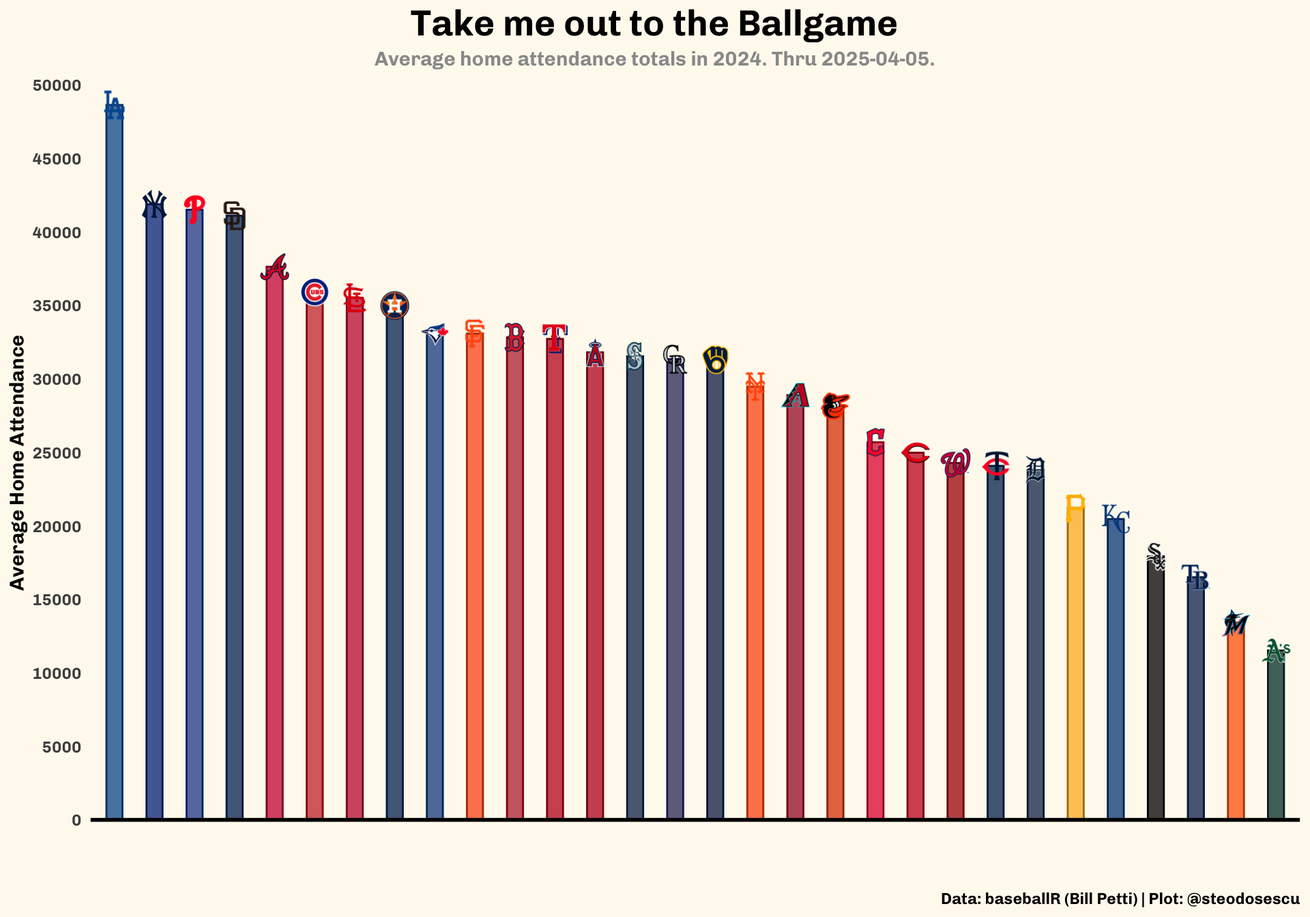
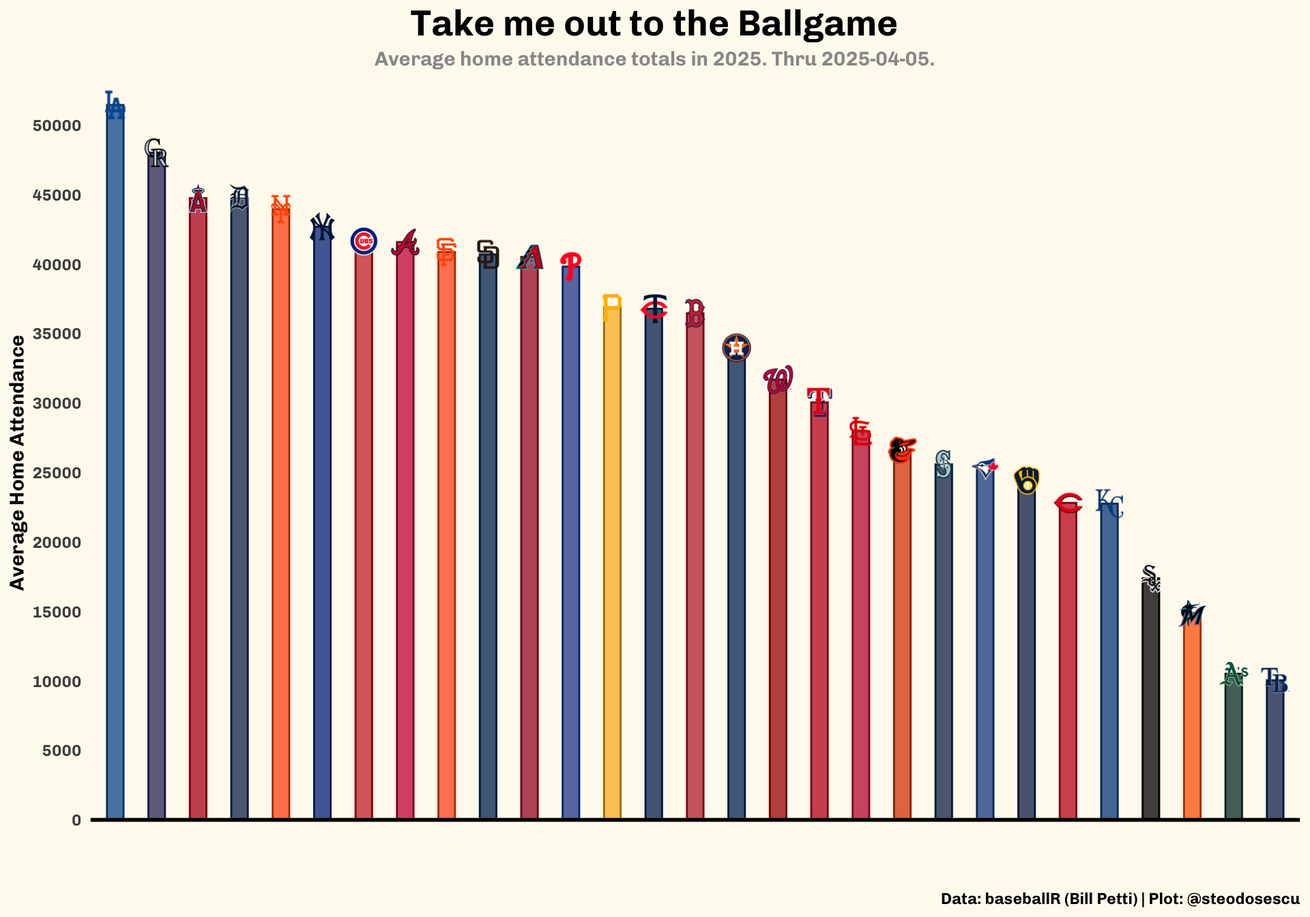
Updated attendance plot for 2025

diff --git a/MLB-Summary.html b/MLB-Summary.html
@@ -307,8 +307,8 @@ advanced metrics I’m tracking for all 30 MLB teams.</p>
 <hr />
 <div id="current-standings" class="section level3">
 <h3>Current Standings</h3>
-<div class="reactable html-widget html-fill-item" id="htmlwidget-c0e83b0c896b8b796c0e" style="width:auto;height:auto;"></div>
-<script type="application/json" data-for="htmlwidget-c0e83b0c896b8b796c0e">{"x":{"tag":{"name":"Reactable","attribs":{"data":{"Rank":[1,2,3,4,5,6,7,8,9,10,11,12,13,14,15,16,17,18,19,20,21,22,23,24,25,26,27,28,29,30],"team_logo_espn":["https://a.espncdn.com/combiner/i?img=/i/teamlogos/mlb/500/LAD.png","https://a.espncdn.com/combiner/i?img=/i/teamlogos/mlb/500/SD.png","https://a.espncdn.com/combiner/i?img=/i/teamlogos/mlb/500/PHI.png","https://a.espncdn.com/combiner/i?img=/i/teamlogos/mlb/500/SF.png","https://a.espncdn.com/combiner/i?img=/i/teamlogos/mlb/500/TEX.png","https://a.espncdn.com/combiner/i?img=/i/teamlogos/mlb/500/NYY.png","https://a.espncdn.com/combiner/i?img=/i/teamlogos/mlb/500/TOR.png","https://a.espncdn.com/combiner/i?img=/i/teamlogos/mlb/500/ARI.png","https://a.espncdn.com/combiner/i?img=/i/teamlogos/mlb/500/CHC.png","https://a.espncdn.com/combiner/i?img=/i/teamlogos/mlb/500/LAA.png","https://a.espncdn.com/combiner/i?img=/i/teamlogos/mlb/500/TB.png","https://a.espncdn.com/combiner/i?img=/i/teamlogos/mlb/500/STL.png","https://a.espncdn.com/combiner/i?img=/i/teamlogos/mlb/500/NYM.png","https://a.espncdn.com/combiner/i?img=/i/teamlogos/mlb/500/BOS.png","https://a.espncdn.com/combiner/i?img=/i/teamlogos/mlb/500/MIA.png","https://a.espncdn.com/combiner/i?img=/i/teamlogos/mlb/500/MIL.png","https://a.espncdn.com/combiner/i?img=/i/teamlogos/mlb/500/KC.png","https://a.espncdn.com/combiner/i?img=/i/teamlogos/mlb/500/HOU.png","https://a.espncdn.com/combiner/i?img=/i/teamlogos/mlb/500/CLE.png","https://a.espncdn.com/combiner/i?img=/i/teamlogos/mlb/500/DET.png","https://a.espncdn.com/combiner/i?img=/i/teamlogos/mlb/500/SEA.png","https://a.espncdn.com/combiner/i?img=/i/teamlogos/mlb/500/BAL.png","https://a.espncdn.com/combiner/i?img=/i/teamlogos/mlb/500/OAK.png","https://a.espncdn.com/combiner/i?img=/i/teamlogos/mlb/500/CHW.png","https://a.espncdn.com/combiner/i?img=/i/teamlogos/mlb/500/MIN.png","https://a.espncdn.com/combiner/i?img=/i/teamlogos/mlb/500/PIT.png","https://a.espncdn.com/combiner/i?img=/i/teamlogos/mlb/500/CIN.png","https://a.espncdn.com/combiner/i?img=/i/teamlogos/mlb/500/COL.png","https://a.espncdn.com/combiner/i?img=/i/teamlogos/mlb/500/WAS.png","https://a.espncdn.com/combiner/i?img=/i/teamlogos/mlb/500/ATL.png"],"name":["Los Angeles Dodgers","San Diego Padres","Philadelphia Phillies","San Francisco Giants","Texas Rangers","New York Yankees","Toronto Blue Jays","Arizona Diamondbacks","Chicago Cubs","Los Angeles Angels","Tampa Bay Rays","St. Louis Cardinals","New York Mets","Boston Red Sox","Miami Marlins","Milwaukee Brewers","Kansas City Royals","Houston Astros","Cleveland Guardians","Detroit Tigers","Seattle Mariners","Baltimore Orioles","Athletics","Chicago White Sox","Minnesota Twins","Pittsburgh Pirates","Cincinnati Reds","Colorado Rockies","Washington Nationals","Atlanta Braves"],"division":["NL West","NL West","NL East","NL West","AL West","AL East","AL East","NL West","NL Central","AL West","AL East","NL Central","NL East","AL East","NL East","NL Central","AL Central","AL West","AL Central","AL Central","AL West","AL East","AL West","AL Central","AL Central","NL Central","NL Central","NL West","NL East","NL East"],"W":[8,7,6,6,6,5,5,5,6,4,4,4,4,4,4,4,3,3,3,3,3,3,3,2,2,2,2,1,1,1],"L":[1,1,1,1,2,2,3,3,4,3,3,3,3,4,4,4,4,4,4,4,5,5,5,5,5,6,6,6,6,7],"W-L%":[0.889,0.875,0.857,0.857,0.75,0.714,0.625,0.625,0.6,0.571,0.571,0.571,0.571,0.5,0.5,0.5,0.429,0.429,0.429,0.429,0.375,0.375,0.375,0.286,0.286,0.25,0.25,0.143,0.143,0.125],"GB":["--","0.5","1.0","1.0","--","0.5","1.0","2.5","2.5","1.5","1.5","3.0","3.0","2.0","3.5","3.5","2.5","2.5","2.5","2.5","3.0","3.0","3.0","3.5","3.5","5.5","5.5","6.0","6.0","6.5"],"pythW-L%":[0.747,0.856,0.763,0.703,0.427,0.73,0.446,0.588,0.631,0.361,0.677,0.631,0.67,0.574,0.337,0.238,0.563,0.365,0.399,0.5,0.338,0.454,0.301,0.517,0.279,0.266,0.556,0.199,0.307,0.371],"run_diff":[21,23,17,15,-4,26,-4,9,16,-11,9,13,9,6,-13,-24,4,-6,-7,0,-12,-4,-17,1,-15,-17,3,-16,-14,-8],"proj_w":[121,139,124,114,69,118,72,95,102,58,110,102,109,93,55,39,91,59,65,81,55,74,49,84,45,43,90,32,50,60],"proj_l":[41,23,38,48,93,44,90,67,60,104,52,60,53,69,107,123,71,103,97,81,107,88,113,78,117,119,72,130,112,102]},"columns":[{"id":"Rank","name":"Rank","type":"numeric","minWidth":75,"align":"center"},{"id":"team_logo_espn","name":"","type":"character","minWidth":75,"align":"center","cell":[{"name":"Fragment","attribs":[],"children":[{"name":"div","attribs":{"style":{"display":"flex","justifyContent":"center"}},"children":[{"name":"img","attribs":{"src":"https://a.espncdn.com/combiner/i?img=/i/teamlogos/mlb/500/LAD.png","align":"center","height":"25","width":"30"},"children":[]}]}]},{"name":"Fragment","attribs":[],"children":[{"name":"div","attribs":{"style":{"display":"flex","justifyContent":"center"}},"children":[{"name":"img","attribs":{"src":"https://a.espncdn.com/combiner/i?img=/i/teamlogos/mlb/500/SD.png","align":"center","height":"25","width":"30"},"children":[]}]}]},{"name":"Fragment","attribs":[],"children":[{"name":"div","attribs":{"style":{"display":"flex","justifyContent":"center"}},"children":[{"name":"img","attribs":{"src":"https://a.espncdn.com/combiner/i?img=/i/teamlogos/mlb/500/PHI.png","align":"center","height":"25","width":"30"},"children":[]}]}]},{"name":"Fragment","attribs":[],"children":[{"name":"div","attribs":{"style":{"display":"flex","justifyContent":"center"}},"children":[{"name":"img","attribs":{"src":"https://a.espncdn.com/combiner/i?img=/i/teamlogos/mlb/500/SF.png","align":"center","height":"25","width":"30"},"children":[]}]}]},{"name":"Fragment","attribs":[],"children":[{"name":"div","attribs":{"style":{"display":"flex","justifyContent":"center"}},"children":[{"name":"img","attribs":{"src":"https://a.espncdn.com/combiner/i?img=/i/teamlogos/mlb/500/TEX.png","align":"center","height":"25","width":"30"},"children":[]}]}]},{"name":"Fragment","attribs":[],"children":[{"name":"div","attribs":{"style":{"display":"flex","justifyContent":"center"}},"children":[{"name":"img","attribs":{"src":"https://a.espncdn.com/combiner/i?img=/i/teamlogos/mlb/500/NYY.png","align":"center","height":"25","width":"30"},"children":[]}]}]},{"name":"Fragment","attribs":[],"children":[{"name":"div","attribs":{"style":{"display":"flex","justifyContent":"center"}},"children":[{"name":"img","attribs":{"src":"https://a.espncdn.com/combiner/i?img=/i/teamlogos/mlb/500/TOR.png","align":"center","height":"25","width":"30"},"children":[]}]}]},{"name":"Fragment","attribs":[],"children":[{"name":"div","attribs":{"style":{"display":"flex","justifyContent":"center"}},"children":[{"name":"img","attribs":{"src":"https://a.espncdn.com/combiner/i?img=/i/teamlogos/mlb/500/ARI.png","align":"center","height":"25","width":"30"},"children":[]}]}]},{"name":"Fragment","attribs":[],"children":[{"name":"div","attribs":{"style":{"display":"flex","justifyContent":"center"}},"children":[{"name":"img","attribs":{"src":"https://a.espncdn.com/combiner/i?img=/i/teamlogos/mlb/500/CHC.png","align":"center","height":"25","width":"30"},"children":[]}]}]},{"name":"Fragment","attribs":[],"children":[{"name":"div","attribs":{"style":{"display":"flex","justifyContent":"center"}},"children":[{"name":"img","attribs":{"src":"https://a.espncdn.com/combiner/i?img=/i/teamlogos/mlb/500/LAA.png","align":"center","height":"25","width":"30"},"children":[]}]}]},{"name":"Fragment","attribs":[],"children":[{"name":"div","attribs":{"style":{"display":"flex","justifyContent":"center"}},"children":[{"name":"img","attribs":{"src":"https://a.espncdn.com/combiner/i?img=/i/teamlogos/mlb/500/TB.png","align":"center","height":"25","width":"30"},"children":[]}]}]},{"name":"Fragment","attribs":[],"children":[{"name":"div","attribs":{"style":{"display":"flex","justifyContent":"center"}},"children":[{"name":"img","attribs":{"src":"https://a.espncdn.com/combiner/i?img=/i/teamlogos/mlb/500/STL.png","align":"center","height":"25","width":"30"},"children":[]}]}]},{"name":"Fragment","attribs":[],"children":[{"name":"div","attribs":{"style":{"display":"flex","justifyContent":"center"}},"children":[{"name":"img","attribs":{"src":"https://a.espncdn.com/combiner/i?img=/i/teamlogos/mlb/500/NYM.png","align":"center","height":"25","width":"30"},"children":[]}]}]},{"name":"Fragment","attribs":[],"children":[{"name":"div","attribs":{"style":{"display":"flex","justifyContent":"center"}},"children":[{"name":"img","attribs":{"src":"https://a.espncdn.com/combiner/i?img=/i/teamlogos/mlb/500/BOS.png","align":"center","height":"25","width":"30"},"children":[]}]}]},{"name":"Fragment","attribs":[],"children":[{"name":"div","attribs":{"style":{"display":"flex","justifyContent":"center"}},"children":[{"name":"img","attribs":{"src":"https://a.espncdn.com/combiner/i?img=/i/teamlogos/mlb/500/MIA.png","align":"center","height":"25","width":"30"},"children":[]}]}]},{"name":"Fragment","attribs":[],"children":[{"name":"div","attribs":{"style":{"display":"flex","justifyContent":"center"}},"children":[{"name":"img","attribs":{"src":"https://a.espncdn.com/combiner/i?img=/i/teamlogos/mlb/500/MIL.png","align":"center","height":"25","width":"30"},"children":[]}]}]},{"name":"Fragment","attribs":[],"children":[{"name":"div","attribs":{"style":{"display":"flex","justifyContent":"center"}},"children":[{"name":"img","attribs":{"src":"https://a.espncdn.com/combiner/i?img=/i/teamlogos/mlb/500/KC.png","align":"center","height":"25","width":"30"},"children":[]}]}]},{"name":"Fragment","attribs":[],"children":[{"name":"div","attribs":{"style":{"display":"flex","justifyContent":"center"}},"children":[{"name":"img","attribs":{"src":"https://a.espncdn.com/combiner/i?img=/i/teamlogos/mlb/500/HOU.png","align":"center","height":"25","width":"30"},"children":[]}]}]},{"name":"Fragment","attribs":[],"children":[{"name":"div","attribs":{"style":{"display":"flex","justifyContent":"center"}},"children":[{"name":"img","attribs":{"src":"https://a.espncdn.com/combiner/i?img=/i/teamlogos/mlb/500/CLE.png","align":"center","height":"25","width":"30"},"children":[]}]}]},{"name":"Fragment","attribs":[],"children":[{"name":"div","attribs":{"style":{"display":"flex","justifyContent":"center"}},"children":[{"name":"img","attribs":{"src":"https://a.espncdn.com/combiner/i?img=/i/teamlogos/mlb/500/DET.png","align":"center","height":"25","width":"30"},"children":[]}]}]},{"name":"Fragment","attribs":[],"children":[{"name":"div","attribs":{"style":{"display":"flex","justifyContent":"center"}},"children":[{"name":"img","attribs":{"src":"https://a.espncdn.com/combiner/i?img=/i/teamlogos/mlb/500/SEA.png","align":"center","height":"25","width":"30"},"children":[]}]}]},{"name":"Fragment","attribs":[],"children":[{"name":"div","attribs":{"style":{"display":"flex","justifyContent":"center"}},"children":[{"name":"img","attribs":{"src":"https://a.espncdn.com/combiner/i?img=/i/teamlogos/mlb/500/BAL.png","align":"center","height":"25","width":"30"},"children":[]}]}]},{"name":"Fragment","attribs":[],"children":[{"name":"div","attribs":{"style":{"display":"flex","justifyContent":"center"}},"children":[{"name":"img","attribs":{"src":"https://a.espncdn.com/combiner/i?img=/i/teamlogos/mlb/500/OAK.png","align":"center","height":"25","width":"30"},"children":[]}]}]},{"name":"Fragment","attribs":[],"children":[{"name":"div","attribs":{"style":{"display":"flex","justifyContent":"center"}},"children":[{"name":"img","attribs":{"src":"https://a.espncdn.com/combiner/i?img=/i/teamlogos/mlb/500/CHW.png","align":"center","height":"25","width":"30"},"children":[]}]}]},{"name":"Fragment","attribs":[],"children":[{"name":"div","attribs":{"style":{"display":"flex","justifyContent":"center"}},"children":[{"name":"img","attribs":{"src":"https://a.espncdn.com/combiner/i?img=/i/teamlogos/mlb/500/MIN.png","align":"center","height":"25","width":"30"},"children":[]}]}]},{"name":"Fragment","attribs":[],"children":[{"name":"div","attribs":{"style":{"display":"flex","justifyContent":"center"}},"children":[{"name":"img","attribs":{"src":"https://a.espncdn.com/combiner/i?img=/i/teamlogos/mlb/500/PIT.png","align":"center","height":"25","width":"30"},"children":[]}]}]},{"name":"Fragment","attribs":[],"children":[{"name":"div","attribs":{"style":{"display":"flex","justifyContent":"center"}},"children":[{"name":"img","attribs":{"src":"https://a.espncdn.com/combiner/i?img=/i/teamlogos/mlb/500/CIN.png","align":"center","height":"25","width":"30"},"children":[]}]}]},{"name":"Fragment","attribs":[],"children":[{"name":"div","attribs":{"style":{"display":"flex","justifyContent":"center"}},"children":[{"name":"img","attribs":{"src":"https://a.espncdn.com/combiner/i?img=/i/teamlogos/mlb/500/COL.png","align":"center","height":"25","width":"30"},"children":[]}]}]},{"name":"Fragment","attribs":[],"children":[{"name":"div","attribs":{"style":{"display":"flex","justifyContent":"center"}},"children":[{"name":"img","attribs":{"src":"https://a.espncdn.com/combiner/i?img=/i/teamlogos/mlb/500/WAS.png","align":"center","height":"25","width":"30"},"children":[]}]}]},{"name":"Fragment","attribs":[],"children":[{"name":"div","attribs":{"style":{"display":"flex","justifyContent":"center"}},"children":[{"name":"img","attribs":{"src":"https://a.espncdn.com/combiner/i?img=/i/teamlogos/mlb/500/ATL.png","align":"center","height":"25","width":"30"},"children":[]}]}]}],"maxWidth":70},{"id":"name","name":"Team","type":"character","minWidth":160,"align":"left"},{"id":"division","name":"Division","type":"character","minWidth":100,"align":"center"},{"id":"W","name":"W","type":"numeric","minWidth":75,"align":"center"},{"id":"L","name":"L","type":"numeric","minWidth":75,"align":"center"},{"id":"W-L%","name":"W-L%","type":"numeric","minWidth":75,"align":"center"},{"id":"GB","name":"GB","type":"character","minWidth":75,"align":"center"},{"id":"pythW-L%","name":"pythW-L%","type":"numeric","minWidth":75,"align":"center"},{"id":"run_diff","name":"Run Diff","type":"numeric","minWidth":75,"align":"center"},{"id":"proj_w","name":"Proj. W","type":"numeric","minWidth":75,"align":"center"},{"id":"proj_l","name":"Proj. L","type":"numeric","minWidth":75,"align":"center"}],"searchable":true,"pagination":false,"defaultPageSize":100,"compact":true,"inline":true,"theme":{"borderColor":"#CDCDCD","style":{"fontFamily":"Chivo"},"headerStyle":{"&:hover[aria-sort]":{"background":"hsl(0, 0%, 80%)"},"&[aria-sort='ascending'], &[aria-sort='descending']":{"background":"#555","color":"#FFF"},"borderColor":"#333"},"searchInputStyle":{"width":"31%","backgroundColor":"#F9F9F9"}},"language":{"searchPlaceholder":"SEARCH FOR A TEAM..."},"dataKey":"6562ee19ccde5419c9732cbfa568778f"},"children":[]},"class":"reactR_markup"},"evals":[],"jsHooks":[]}</script>
+<div class="reactable html-widget html-fill-item" id="htmlwidget-93cdfa7b633f0ec7a531" style="width:auto;height:auto;"></div>
+<script type="application/json" data-for="htmlwidget-93cdfa7b633f0ec7a531">{"x":{"tag":{"name":"Reactable","attribs":{"data":{"Rank":[1,2,3,4,5,6,7,8,9,10,11,12,13,14,15,16,17,18,19,20,21,22,23,24,25,26,27,28,29,30],"team_logo_espn":["https://a.espncdn.com/combiner/i?img=/i/teamlogos/mlb/500/LAD.png","https://a.espncdn.com/combiner/i?img=/i/teamlogos/mlb/500/SD.png","https://a.espncdn.com/combiner/i?img=/i/teamlogos/mlb/500/PHI.png","https://a.espncdn.com/combiner/i?img=/i/teamlogos/mlb/500/SF.png","https://a.espncdn.com/combiner/i?img=/i/teamlogos/mlb/500/TEX.png","https://a.espncdn.com/combiner/i?img=/i/teamlogos/mlb/500/NYY.png","https://a.espncdn.com/combiner/i?img=/i/teamlogos/mlb/500/TOR.png","https://a.espncdn.com/combiner/i?img=/i/teamlogos/mlb/500/ARI.png","https://a.espncdn.com/combiner/i?img=/i/teamlogos/mlb/500/CHC.png","https://a.espncdn.com/combiner/i?img=/i/teamlogos/mlb/500/LAA.png","https://a.espncdn.com/combiner/i?img=/i/teamlogos/mlb/500/TB.png","https://a.espncdn.com/combiner/i?img=/i/teamlogos/mlb/500/STL.png","https://a.espncdn.com/combiner/i?img=/i/teamlogos/mlb/500/NYM.png","https://a.espncdn.com/combiner/i?img=/i/teamlogos/mlb/500/BOS.png","https://a.espncdn.com/combiner/i?img=/i/teamlogos/mlb/500/MIA.png","https://a.espncdn.com/combiner/i?img=/i/teamlogos/mlb/500/MIL.png","https://a.espncdn.com/combiner/i?img=/i/teamlogos/mlb/500/KC.png","https://a.espncdn.com/combiner/i?img=/i/teamlogos/mlb/500/HOU.png","https://a.espncdn.com/combiner/i?img=/i/teamlogos/mlb/500/CLE.png","https://a.espncdn.com/combiner/i?img=/i/teamlogos/mlb/500/DET.png","https://a.espncdn.com/combiner/i?img=/i/teamlogos/mlb/500/SEA.png","https://a.espncdn.com/combiner/i?img=/i/teamlogos/mlb/500/BAL.png","https://a.espncdn.com/combiner/i?img=/i/teamlogos/mlb/500/OAK.png","https://a.espncdn.com/combiner/i?img=/i/teamlogos/mlb/500/CHW.png","https://a.espncdn.com/combiner/i?img=/i/teamlogos/mlb/500/MIN.png","https://a.espncdn.com/combiner/i?img=/i/teamlogos/mlb/500/PIT.png","https://a.espncdn.com/combiner/i?img=/i/teamlogos/mlb/500/CIN.png","https://a.espncdn.com/combiner/i?img=/i/teamlogos/mlb/500/COL.png","https://a.espncdn.com/combiner/i?img=/i/teamlogos/mlb/500/WAS.png","https://a.espncdn.com/combiner/i?img=/i/teamlogos/mlb/500/ATL.png"],"name":["Los Angeles Dodgers","San Diego Padres","Philadelphia Phillies","San Francisco Giants","Texas Rangers","New York Yankees","Toronto Blue Jays","Arizona Diamondbacks","Chicago Cubs","Los Angeles Angels","Tampa Bay Rays","St. Louis Cardinals","New York Mets","Boston Red Sox","Miami Marlins","Milwaukee Brewers","Kansas City Royals","Houston Astros","Cleveland Guardians","Detroit Tigers","Seattle Mariners","Baltimore Orioles","Athletics","Chicago White Sox","Minnesota Twins","Pittsburgh Pirates","Cincinnati Reds","Colorado Rockies","Washington Nationals","Atlanta Braves"],"division":["NL West","NL West","NL East","NL West","AL West","AL East","AL East","NL West","NL Central","AL West","AL East","NL Central","NL East","AL East","NL East","NL Central","AL Central","AL West","AL Central","AL Central","AL West","AL East","AL West","AL Central","AL Central","NL Central","NL Central","NL West","NL East","NL East"],"W":[8,7,6,6,6,5,5,5,6,4,4,4,4,4,4,4,3,3,3,3,3,3,3,2,2,2,2,1,1,1],"L":[1,1,1,1,2,2,3,3,4,3,3,3,3,4,4,4,4,4,4,4,5,5,5,5,5,6,6,6,6,7],"W-L%":[0.889,0.875,0.857,0.857,0.75,0.714,0.625,0.625,0.6,0.571,0.571,0.571,0.571,0.5,0.5,0.5,0.429,0.429,0.429,0.429,0.375,0.375,0.375,0.286,0.286,0.25,0.25,0.143,0.143,0.125],"GB":["--","0.5","1.0","1.0","--","0.5","1.0","2.5","2.5","1.5","1.5","3.0","3.0","2.0","3.5","3.5","2.5","2.5","2.5","2.5","3.0","3.0","3.0","3.5","3.5","5.5","5.5","6.0","6.0","6.5"],"pythW-L%":[0.747,0.856,0.763,0.703,0.427,0.73,0.446,0.588,0.631,0.361,0.677,0.631,0.67,0.574,0.337,0.238,0.563,0.365,0.399,0.5,0.338,0.454,0.301,0.517,0.279,0.266,0.556,0.199,0.307,0.371],"run_diff":[21,23,17,15,-4,26,-4,9,16,-11,9,13,9,6,-13,-24,4,-6,-7,0,-12,-4,-17,1,-15,-17,3,-16,-14,-8],"proj_w":[121,139,124,114,69,118,72,95,102,58,110,102,109,93,55,39,91,59,65,81,55,74,49,84,45,43,90,32,50,60],"proj_l":[41,23,38,48,93,44,90,67,60,104,52,60,53,69,107,123,71,103,97,81,107,88,113,78,117,119,72,130,112,102]},"columns":[{"id":"Rank","name":"Rank","type":"numeric","minWidth":75,"align":"center"},{"id":"team_logo_espn","name":"","type":"character","minWidth":75,"align":"center","cell":[{"name":"Fragment","attribs":[],"children":[{"name":"div","attribs":{"style":{"display":"flex","justifyContent":"center"}},"children":[{"name":"img","attribs":{"src":"https://a.espncdn.com/combiner/i?img=/i/teamlogos/mlb/500/LAD.png","align":"center","height":"25","width":"30"},"children":[]}]}]},{"name":"Fragment","attribs":[],"children":[{"name":"div","attribs":{"style":{"display":"flex","justifyContent":"center"}},"children":[{"name":"img","attribs":{"src":"https://a.espncdn.com/combiner/i?img=/i/teamlogos/mlb/500/SD.png","align":"center","height":"25","width":"30"},"children":[]}]}]},{"name":"Fragment","attribs":[],"children":[{"name":"div","attribs":{"style":{"display":"flex","justifyContent":"center"}},"children":[{"name":"img","attribs":{"src":"https://a.espncdn.com/combiner/i?img=/i/teamlogos/mlb/500/PHI.png","align":"center","height":"25","width":"30"},"children":[]}]}]},{"name":"Fragment","attribs":[],"children":[{"name":"div","attribs":{"style":{"display":"flex","justifyContent":"center"}},"children":[{"name":"img","attribs":{"src":"https://a.espncdn.com/combiner/i?img=/i/teamlogos/mlb/500/SF.png","align":"center","height":"25","width":"30"},"children":[]}]}]},{"name":"Fragment","attribs":[],"children":[{"name":"div","attribs":{"style":{"display":"flex","justifyContent":"center"}},"children":[{"name":"img","attribs":{"src":"https://a.espncdn.com/combiner/i?img=/i/teamlogos/mlb/500/TEX.png","align":"center","height":"25","width":"30"},"children":[]}]}]},{"name":"Fragment","attribs":[],"children":[{"name":"div","attribs":{"style":{"display":"flex","justifyContent":"center"}},"children":[{"name":"img","attribs":{"src":"https://a.espncdn.com/combiner/i?img=/i/teamlogos/mlb/500/NYY.png","align":"center","height":"25","width":"30"},"children":[]}]}]},{"name":"Fragment","attribs":[],"children":[{"name":"div","attribs":{"style":{"display":"flex","justifyContent":"center"}},"children":[{"name":"img","attribs":{"src":"https://a.espncdn.com/combiner/i?img=/i/teamlogos/mlb/500/TOR.png","align":"center","height":"25","width":"30"},"children":[]}]}]},{"name":"Fragment","attribs":[],"children":[{"name":"div","attribs":{"style":{"display":"flex","justifyContent":"center"}},"children":[{"name":"img","attribs":{"src":"https://a.espncdn.com/combiner/i?img=/i/teamlogos/mlb/500/ARI.png","align":"center","height":"25","width":"30"},"children":[]}]}]},{"name":"Fragment","attribs":[],"children":[{"name":"div","attribs":{"style":{"display":"flex","justifyContent":"center"}},"children":[{"name":"img","attribs":{"src":"https://a.espncdn.com/combiner/i?img=/i/teamlogos/mlb/500/CHC.png","align":"center","height":"25","width":"30"},"children":[]}]}]},{"name":"Fragment","attribs":[],"children":[{"name":"div","attribs":{"style":{"display":"flex","justifyContent":"center"}},"children":[{"name":"img","attribs":{"src":"https://a.espncdn.com/combiner/i?img=/i/teamlogos/mlb/500/LAA.png","align":"center","height":"25","width":"30"},"children":[]}]}]},{"name":"Fragment","attribs":[],"children":[{"name":"div","attribs":{"style":{"display":"flex","justifyContent":"center"}},"children":[{"name":"img","attribs":{"src":"https://a.espncdn.com/combiner/i?img=/i/teamlogos/mlb/500/TB.png","align":"center","height":"25","width":"30"},"children":[]}]}]},{"name":"Fragment","attribs":[],"children":[{"name":"div","attribs":{"style":{"display":"flex","justifyContent":"center"}},"children":[{"name":"img","attribs":{"src":"https://a.espncdn.com/combiner/i?img=/i/teamlogos/mlb/500/STL.png","align":"center","height":"25","width":"30"},"children":[]}]}]},{"name":"Fragment","attribs":[],"children":[{"name":"div","attribs":{"style":{"display":"flex","justifyContent":"center"}},"children":[{"name":"img","attribs":{"src":"https://a.espncdn.com/combiner/i?img=/i/teamlogos/mlb/500/NYM.png","align":"center","height":"25","width":"30"},"children":[]}]}]},{"name":"Fragment","attribs":[],"children":[{"name":"div","attribs":{"style":{"display":"flex","justifyContent":"center"}},"children":[{"name":"img","attribs":{"src":"https://a.espncdn.com/combiner/i?img=/i/teamlogos/mlb/500/BOS.png","align":"center","height":"25","width":"30"},"children":[]}]}]},{"name":"Fragment","attribs":[],"children":[{"name":"div","attribs":{"style":{"display":"flex","justifyContent":"center"}},"children":[{"name":"img","attribs":{"src":"https://a.espncdn.com/combiner/i?img=/i/teamlogos/mlb/500/MIA.png","align":"center","height":"25","width":"30"},"children":[]}]}]},{"name":"Fragment","attribs":[],"children":[{"name":"div","attribs":{"style":{"display":"flex","justifyContent":"center"}},"children":[{"name":"img","attribs":{"src":"https://a.espncdn.com/combiner/i?img=/i/teamlogos/mlb/500/MIL.png","align":"center","height":"25","width":"30"},"children":[]}]}]},{"name":"Fragment","attribs":[],"children":[{"name":"div","attribs":{"style":{"display":"flex","justifyContent":"center"}},"children":[{"name":"img","attribs":{"src":"https://a.espncdn.com/combiner/i?img=/i/teamlogos/mlb/500/KC.png","align":"center","height":"25","width":"30"},"children":[]}]}]},{"name":"Fragment","attribs":[],"children":[{"name":"div","attribs":{"style":{"display":"flex","justifyContent":"center"}},"children":[{"name":"img","attribs":{"src":"https://a.espncdn.com/combiner/i?img=/i/teamlogos/mlb/500/HOU.png","align":"center","height":"25","width":"30"},"children":[]}]}]},{"name":"Fragment","attribs":[],"children":[{"name":"div","attribs":{"style":{"display":"flex","justifyContent":"center"}},"children":[{"name":"img","attribs":{"src":"https://a.espncdn.com/combiner/i?img=/i/teamlogos/mlb/500/CLE.png","align":"center","height":"25","width":"30"},"children":[]}]}]},{"name":"Fragment","attribs":[],"children":[{"name":"div","attribs":{"style":{"display":"flex","justifyContent":"center"}},"children":[{"name":"img","attribs":{"src":"https://a.espncdn.com/combiner/i?img=/i/teamlogos/mlb/500/DET.png","align":"center","height":"25","width":"30"},"children":[]}]}]},{"name":"Fragment","attribs":[],"children":[{"name":"div","attribs":{"style":{"display":"flex","justifyContent":"center"}},"children":[{"name":"img","attribs":{"src":"https://a.espncdn.com/combiner/i?img=/i/teamlogos/mlb/500/SEA.png","align":"center","height":"25","width":"30"},"children":[]}]}]},{"name":"Fragment","attribs":[],"children":[{"name":"div","attribs":{"style":{"display":"flex","justifyContent":"center"}},"children":[{"name":"img","attribs":{"src":"https://a.espncdn.com/combiner/i?img=/i/teamlogos/mlb/500/BAL.png","align":"center","height":"25","width":"30"},"children":[]}]}]},{"name":"Fragment","attribs":[],"children":[{"name":"div","attribs":{"style":{"display":"flex","justifyContent":"center"}},"children":[{"name":"img","attribs":{"src":"https://a.espncdn.com/combiner/i?img=/i/teamlogos/mlb/500/OAK.png","align":"center","height":"25","width":"30"},"children":[]}]}]},{"name":"Fragment","attribs":[],"children":[{"name":"div","attribs":{"style":{"display":"flex","justifyContent":"center"}},"children":[{"name":"img","attribs":{"src":"https://a.espncdn.com/combiner/i?img=/i/teamlogos/mlb/500/CHW.png","align":"center","height":"25","width":"30"},"children":[]}]}]},{"name":"Fragment","attribs":[],"children":[{"name":"div","attribs":{"style":{"display":"flex","justifyContent":"center"}},"children":[{"name":"img","attribs":{"src":"https://a.espncdn.com/combiner/i?img=/i/teamlogos/mlb/500/MIN.png","align":"center","height":"25","width":"30"},"children":[]}]}]},{"name":"Fragment","attribs":[],"children":[{"name":"div","attribs":{"style":{"display":"flex","justifyContent":"center"}},"children":[{"name":"img","attribs":{"src":"https://a.espncdn.com/combiner/i?img=/i/teamlogos/mlb/500/PIT.png","align":"center","height":"25","width":"30"},"children":[]}]}]},{"name":"Fragment","attribs":[],"children":[{"name":"div","attribs":{"style":{"display":"flex","justifyContent":"center"}},"children":[{"name":"img","attribs":{"src":"https://a.espncdn.com/combiner/i?img=/i/teamlogos/mlb/500/CIN.png","align":"center","height":"25","width":"30"},"children":[]}]}]},{"name":"Fragment","attribs":[],"children":[{"name":"div","attribs":{"style":{"display":"flex","justifyContent":"center"}},"children":[{"name":"img","attribs":{"src":"https://a.espncdn.com/combiner/i?img=/i/teamlogos/mlb/500/COL.png","align":"center","height":"25","width":"30"},"children":[]}]}]},{"name":"Fragment","attribs":[],"children":[{"name":"div","attribs":{"style":{"display":"flex","justifyContent":"center"}},"children":[{"name":"img","attribs":{"src":"https://a.espncdn.com/combiner/i?img=/i/teamlogos/mlb/500/WAS.png","align":"center","height":"25","width":"30"},"children":[]}]}]},{"name":"Fragment","attribs":[],"children":[{"name":"div","attribs":{"style":{"display":"flex","justifyContent":"center"}},"children":[{"name":"img","attribs":{"src":"https://a.espncdn.com/combiner/i?img=/i/teamlogos/mlb/500/ATL.png","align":"center","height":"25","width":"30"},"children":[]}]}]}],"maxWidth":70},{"id":"name","name":"Team","type":"character","minWidth":160,"align":"left"},{"id":"division","name":"Division","type":"character","minWidth":100,"align":"center"},{"id":"W","name":"W","type":"numeric","minWidth":75,"align":"center"},{"id":"L","name":"L","type":"numeric","minWidth":75,"align":"center"},{"id":"W-L%","name":"W-L%","type":"numeric","minWidth":75,"align":"center"},{"id":"GB","name":"GB","type":"character","minWidth":75,"align":"center"},{"id":"pythW-L%","name":"pythW-L%","type":"numeric","minWidth":75,"align":"center"},{"id":"run_diff","name":"Run Diff","type":"numeric","minWidth":75,"align":"center"},{"id":"proj_w","name":"Proj. W","type":"numeric","minWidth":75,"align":"center"},{"id":"proj_l","name":"Proj. L","type":"numeric","minWidth":75,"align":"center"}],"searchable":true,"pagination":false,"defaultPageSize":100,"compact":true,"inline":true,"theme":{"borderColor":"#CDCDCD","style":{"fontFamily":"Chivo"},"headerStyle":{"&:hover[aria-sort]":{"background":"hsl(0, 0%, 80%)"},"&[aria-sort='ascending'], &[aria-sort='descending']":{"background":"#555","color":"#FFF"},"borderColor":"#333"},"searchInputStyle":{"width":"31%","backgroundColor":"#F9F9F9"}},"language":{"searchPlaceholder":"SEARCH FOR A TEAM..."},"dataKey":"6562ee19ccde5419c9732cbfa568778f"},"children":[]},"class":"reactR_markup"},"evals":[],"jsHooks":[]}</script>
 </div>
 
 

diff --git a/Teams.html b/Teams.html
@@ -329,7 +329,7 @@ Expected win total data was pulled during Spring Training in early March
 </div>
 <div id="attendance-profiles" class="section level3">
 <h3>Attendance Profiles</h3>
-<p>2025 Attendance statistics coming soon…</p>
+<p>2025 Attendance totals</p>
 <p><img src="Teams_files/figure-html/attendance-1.png" width="960" /></p>
 </div>
 
